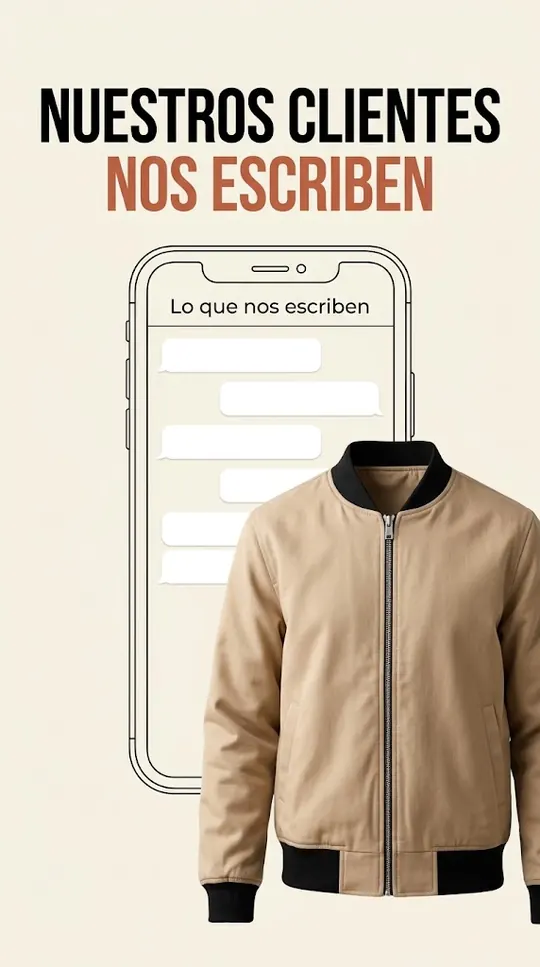
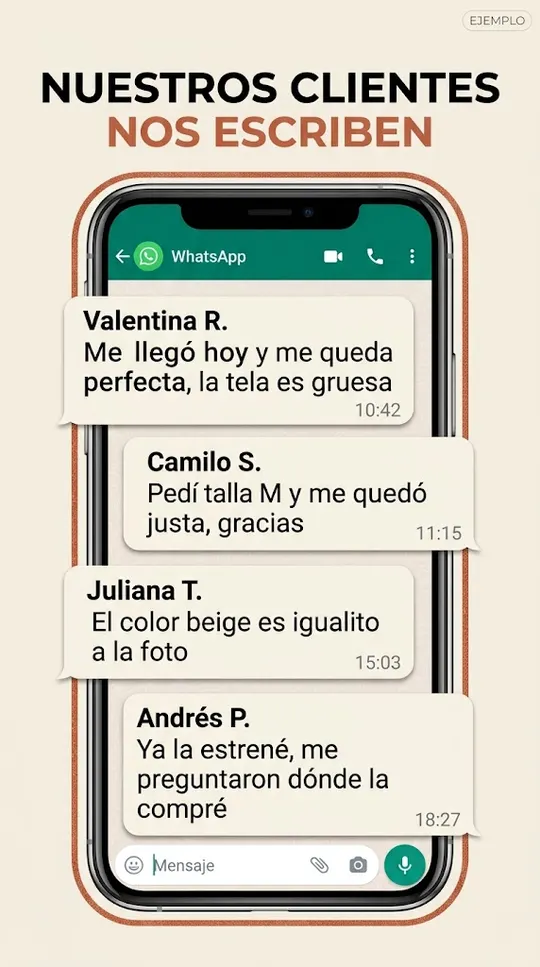
Mi plantilla: ejemplos de moda completos

diff --git a/public/js/core/ejemplos.js b/public/js/core/ejemplos.js
@@ -64,24 +64,49 @@ const HAY = new Set([
   "identificacion-lista123-normal",
   "identificacion-tarjetas-ban",
   "identificacion-tarjetas-normal",
+  "moda_cambio_talla-centrada-ban",
+  "moda_cambio_talla-centrada-normal",
+  "moda_cambio_talla-certificado-ban",
+  "moda_cambio_talla-certificado-normal",
+  "moda_chats-burbujas-ban",
+  "moda_chats-burbujas-normal",
   "moda_chats-telefono-ban",
+  "moda_chats-telefono-normal",
   "moda_ficha-iconos-ban",
+  "moda_ficha-iconos-normal",
   "moda_ficha-tabla-ban",
+  "moda_ficha-tabla-normal",
   "moda_fuera_estudio-collage-ban",
+  "moda_fuera_estudio-collage-normal",
   "moda_fuera_estudio-historia-ban",
+  "moda_fuera_estudio-historia-normal",
   "moda_guia_tallas-como_medir-ban",
+  "moda_guia_tallas-como_medir-normal",
   "moda_guia_tallas-tabla-ban",
+  "moda_guia_tallas-tabla-normal",
   "moda_material-lupas-ban",
+  "moda_material-lupas-normal",
   "moda_material-macro-ban",
+  "moda_material-macro-normal",
+  "moda_por_que-tabla-ban",
+  "moda_por_que-tabla-normal",
+  "moda_por_que-versus-ban",
+  "moda_por_que-versus-normal",
   "moda_portada-cuerpo-ban",
   "moda_portada-mosaico-ban",
   "moda_portada-revista-ban",
   "moda_precio_tallas-fila-ban",
+  "moda_precio_tallas-fila-normal",
   "moda_precio_tallas-tarjeta-ban",
+  "moda_precio_tallas-tarjeta-normal",
   "moda_tres_formas-lado-ban",
+  "moda_tres_formas-lado-normal",
   "moda_tres_formas-numerados-ban",
+  "moda_tres_formas-numerados-normal",
   "moda_vistas-giro-ban",
+  "moda_vistas-giro-normal",
   "moda_vistas-tres-ban",
+  "moda_vistas-tres-normal",
   "oferta-caja-ban",
   "oferta-franja-ban",
   "oferta-polaroid-ban",
